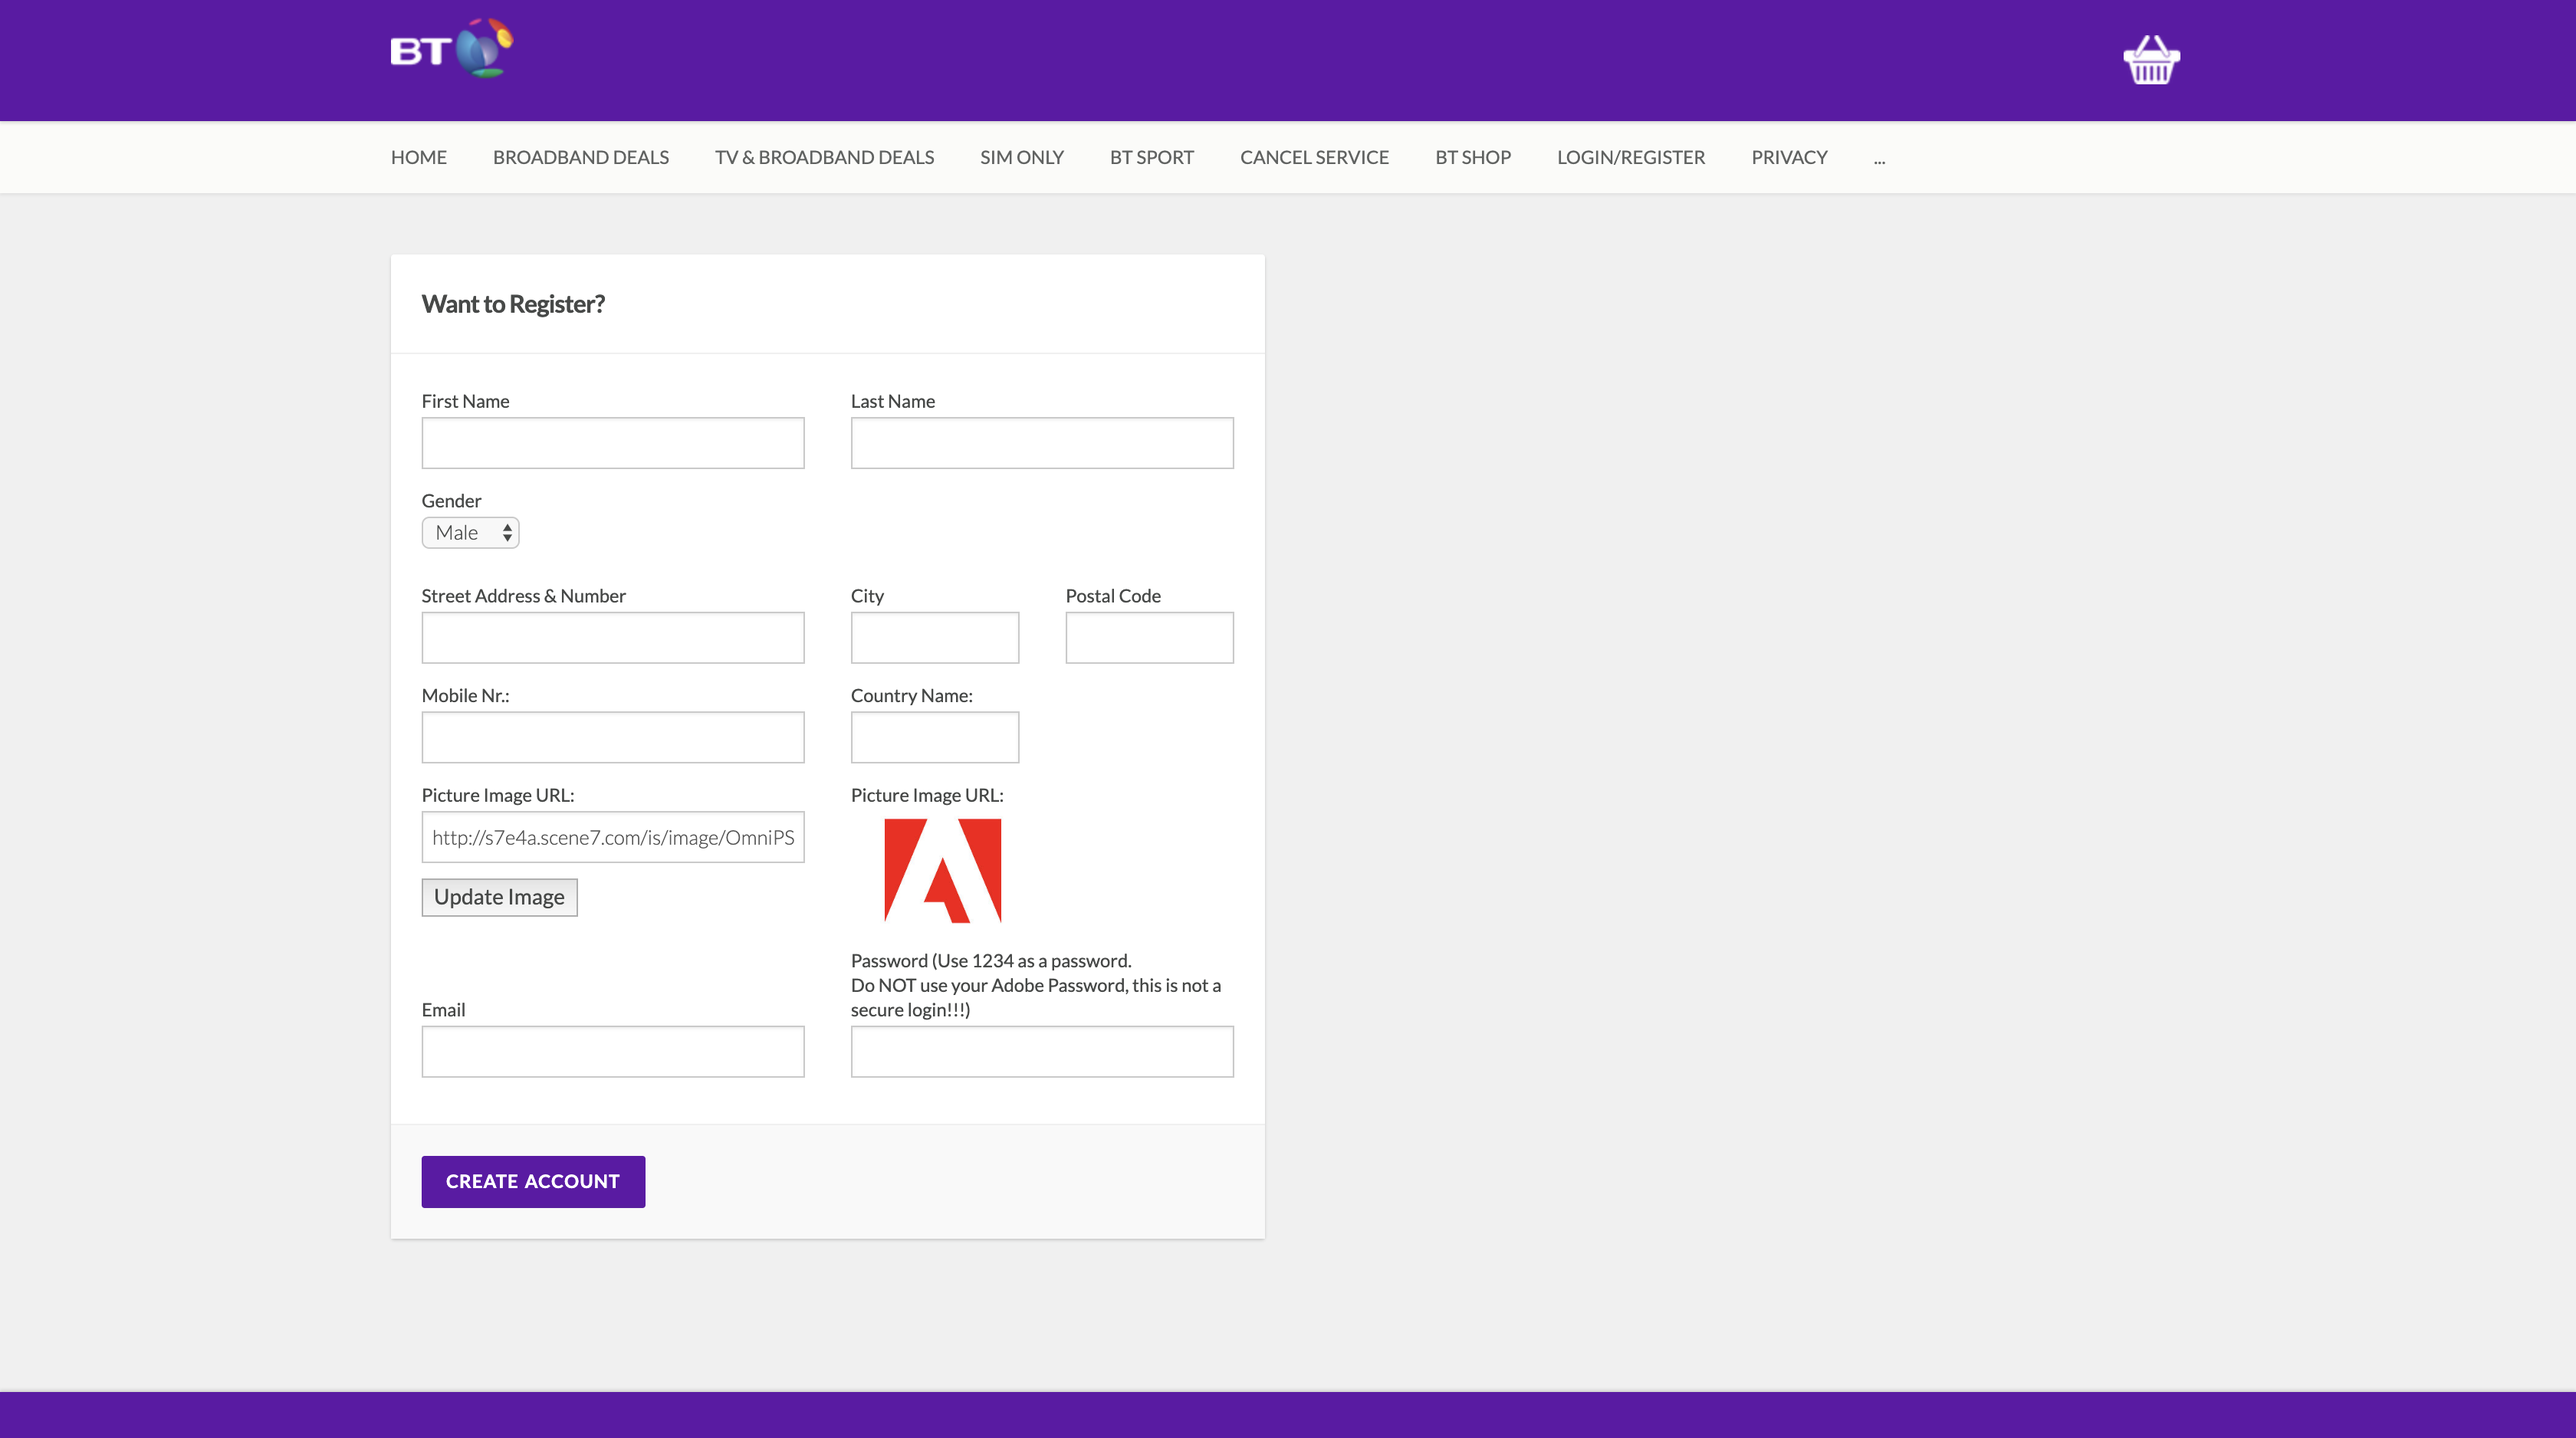
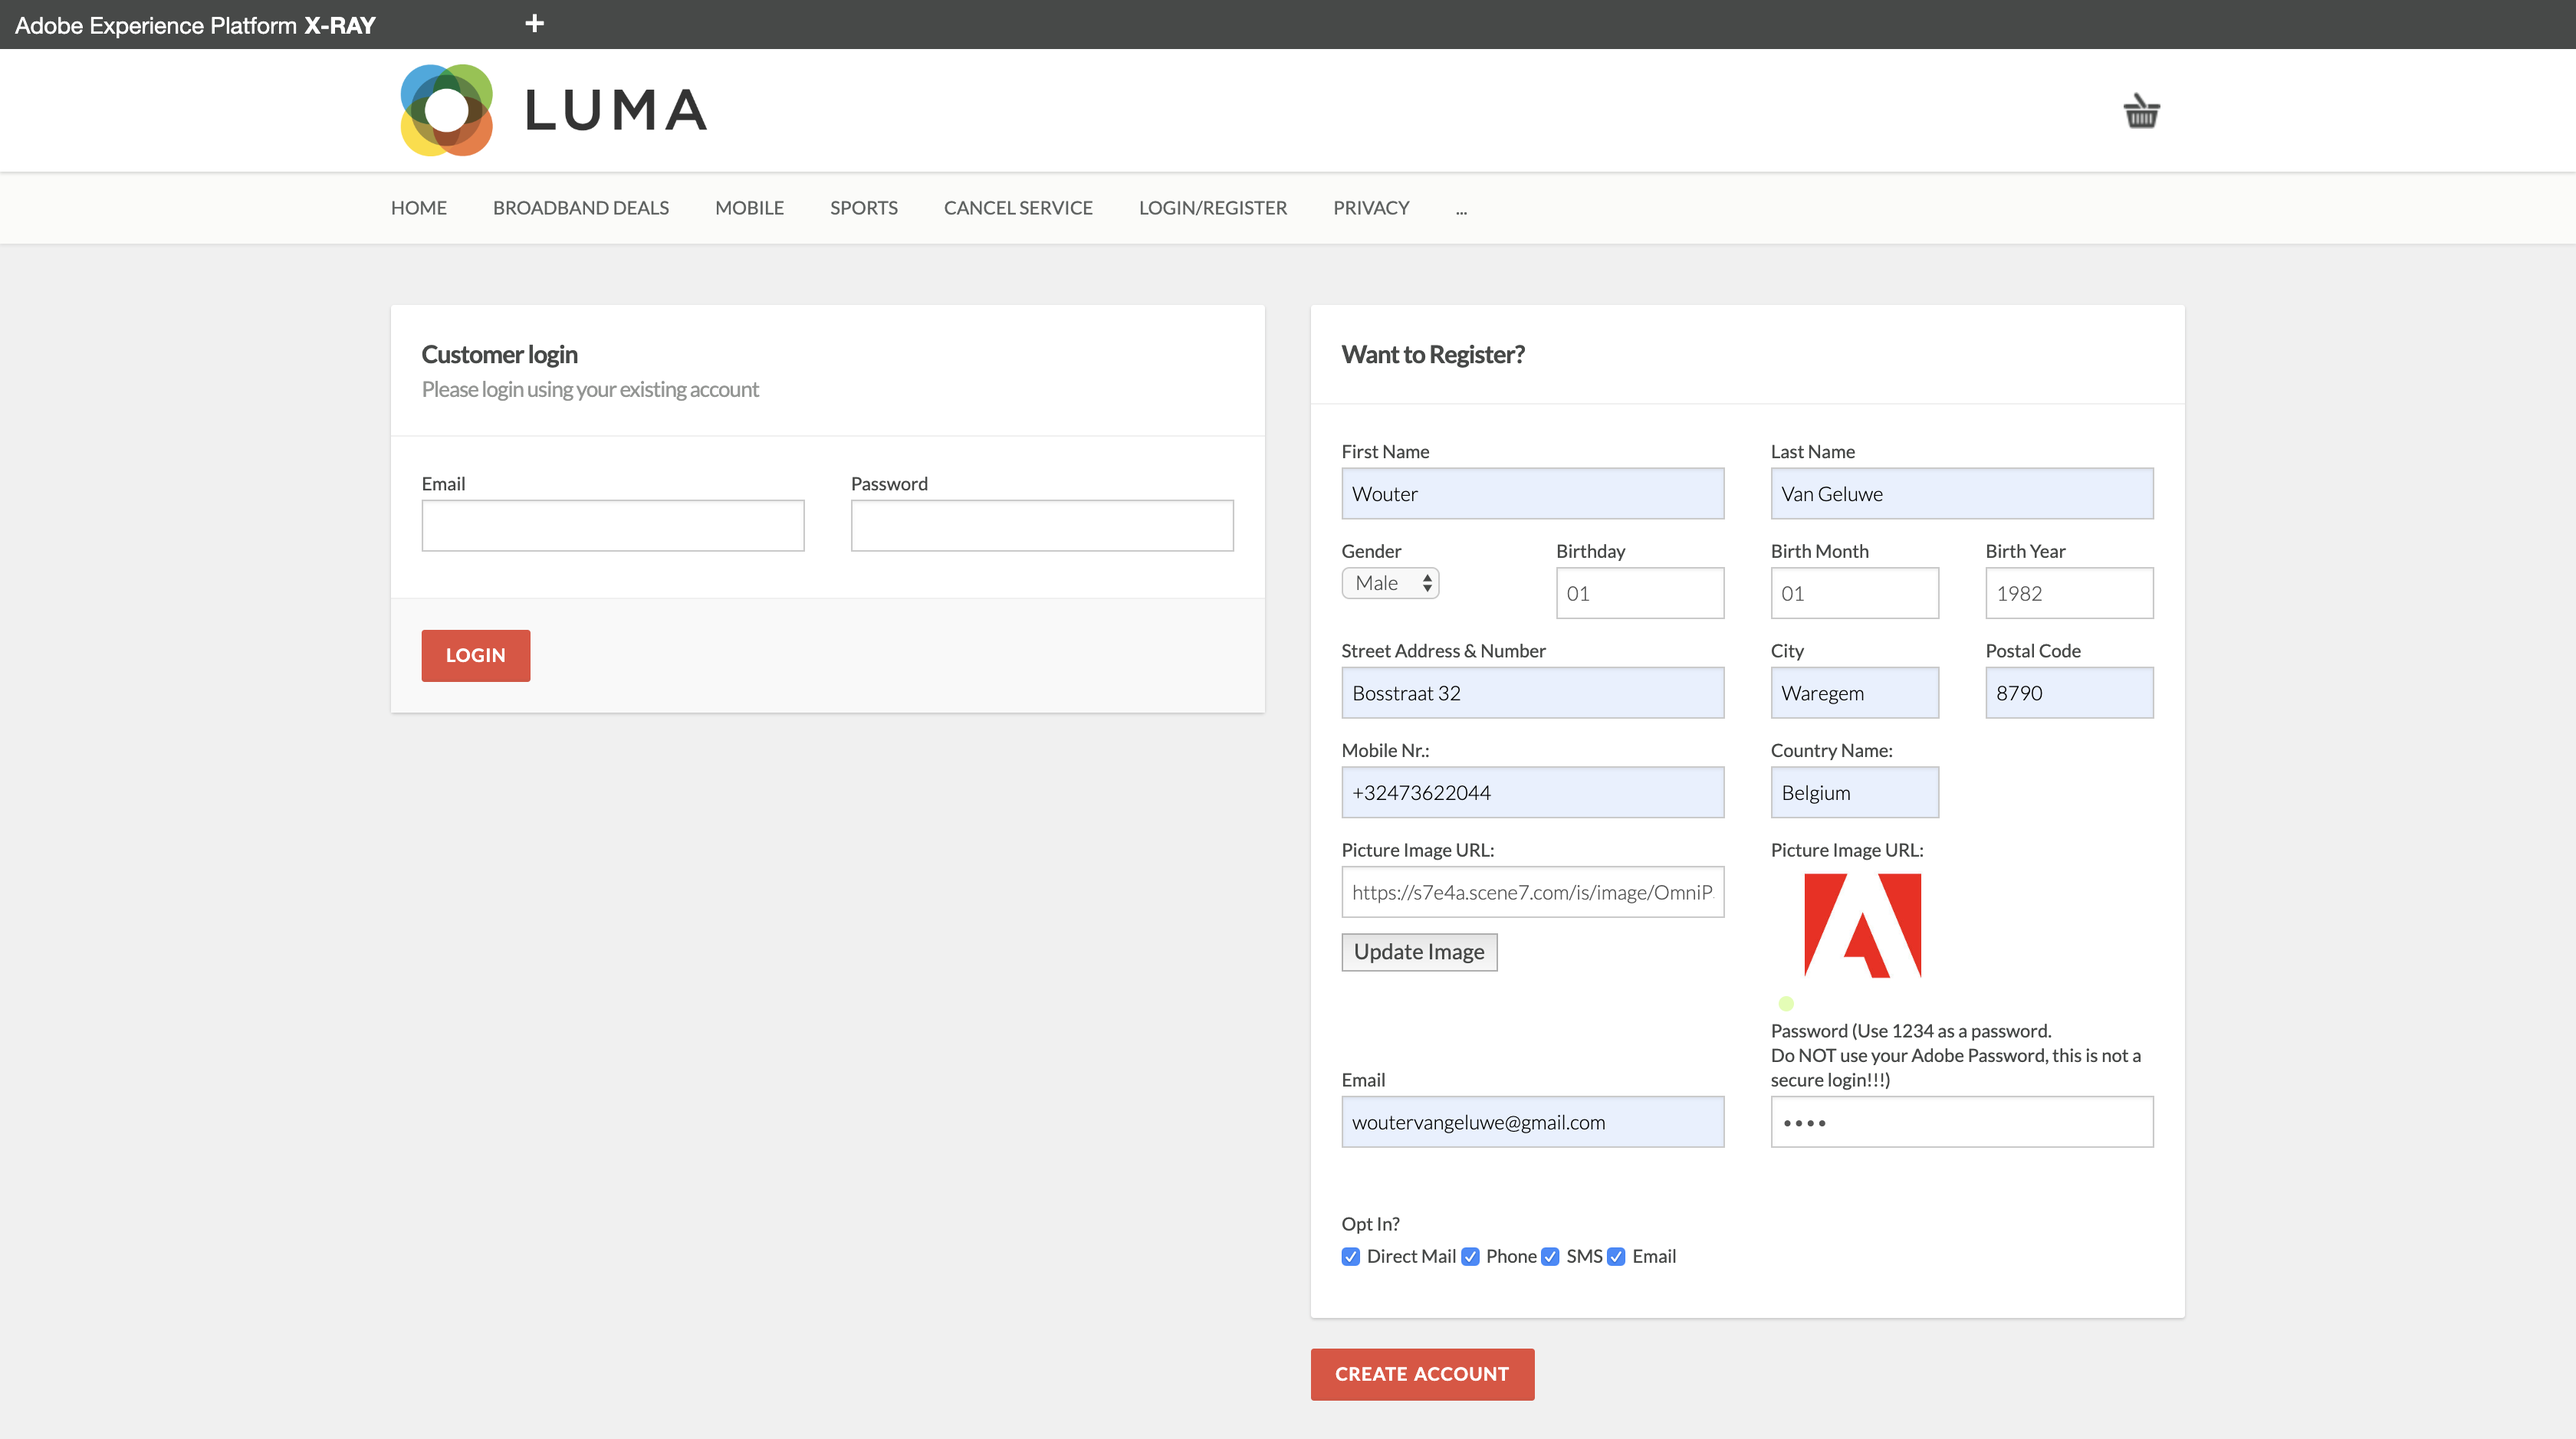
v1

diff --git a/M0/README.md b/M0/README.md
@@ -43,7 +43,7 @@ Servers are now running, and you can access the Start Page by clicking on 'Open 
 
 ![MAMP Setup](./images/mamp_localhost.png)
 
-MAMP has a default website installed on a specific location on your computer. We need to replace the default website with our 'La Boutique' demo website.
+MAMP has a default website installed on a specific location on your computer. We need to replace the default website with our 'Luma Telco' demo website.
 
 **Mac:** On your MacBook, go to Applications and locate the MAMP folder in the Applications list.
 
@@ -63,7 +63,7 @@ MAMP has a default website installed on a specific location on your computer. We
 
 ![MAMP Setup](./images/mamp_app4.png)
 
-Go to the folder where you unzipped the zip-package of the La Boutique demo website. Copy all files and paste them in the 'htdocs' folder.
+Go to the folder where you unzipped the zip-package of the Luma Telco demo website. Copy all files and paste them in the 'htdocs' folder.
 
 ![MAMP Setup](./images/mamp_app6.png)
 ![MAMP Setup](./images/mamp_app7.png)
@@ -72,7 +72,7 @@ Go back to your web browser.
 
 ![MAMP Setup](./images/mamp_localhost.png)
 
-Click on 'My Website' to navigate to the La Boutique demo website.
+Click on 'My Website' to navigate to the Luma Telco demo website.
 
 You should now see this website:
 
@@ -82,14 +82,12 @@ You can always Start and Stop MAMP by going back to the MAMP Application:
 
 ![MAMP Setup](./images/mamp2.png)
 
-One you've started your web server, you can directly access the La Boutique website by going to <a href="http://localhost:8888/index.html" target="_blank">http://localhost:8888/index.html</a>
+One you've started your web server, you can directly access the Luma Telco website by going to <a href="http://localhost:8888/index.html" target="_blank">http://localhost:8888/index.html</a>
 
 
-If the La Boutique website is displayed, then you've successfully completed this exercise.
+If the Luma Telco website is displayed, then you've successfully completed this exercise.
 
 Congratulations!
-
-[Next Step: Configure Launch for your website](../launch/README.md)
 
 [Go Back to All Modules](../README.md)
 

diff --git a/M1/ex0.md b/M1/ex0.md
@@ -1,16 +1,16 @@
-## Exercise 0 - Explore the BT website
+## Exercise 0 - Explore the Luma website
 
-In this exercise, you'll explore the BT website that is installed on your local machine.
+In this exercise, you'll explore the Luma website that is installed on your local machine.
 
-This site is currently untagged and doesn't send any data to Adobe Experience Platform.
+This site is currently tagged with a default Launch property and already sends data to Adobe Experience Platform.
 
-In this Tech Lab, you'll be configuring what is required to capture profile information and customer behavior from this website and stream it to Adobe Experience Platform.
+In this module, we'll have a look at what is required to capture profile information and customer behavior from this website and stream it to Adobe Experience Platform.
 
-The URL to access the BT website is [http://lab08.bt.com](http://lab08.bt.com).
- 
-### Exercise 0.1 - Explore BT website
+The URL to access the Luma website is [http://localhost:8888](http://localhost:8888).
+ Luma
+### Exercise 0.1 - Explore Luma website
 
-Go to to [http://lab08.bt.com](http://lab08.bt.com).
+Go to to [http://localhost:8888](http://localhost:8888).
 
 ![Demo](./images/1.png)
 
@@ -18,7 +18,7 @@ In the site's menu, click on Broadband Deals to visit that page.
 
 ![Demo](./images/2.png)
 
-In the site's menu, click on TV & Broadband Deals to visit that page.
+In the site's menu, click on Sports to visit that page.
 
 ![Demo](./images/3.png)
 

diff --git a/M1/README.md b/M1/README.md
@@ -22,9 +22,6 @@ In order to act immediately and appropriately upon customer behavior, the behavi
 Luma would like to activate that data to several solutions like Adobe Target and Adobe Audience Manager, but also to channels like a call center or an in-store environment.
 In this lab, we'll focus on capturing the data as soon as possible.
 
-### [Before we start](./info.md)
-Read through this info to know where to find usernames, passwords and computer numbers.
-
 ### [Exercise 0 - Explore the Luma website](./ex0.md)
 In this exercise, you'll explore the Luma website that is installed on your local machine.
 
